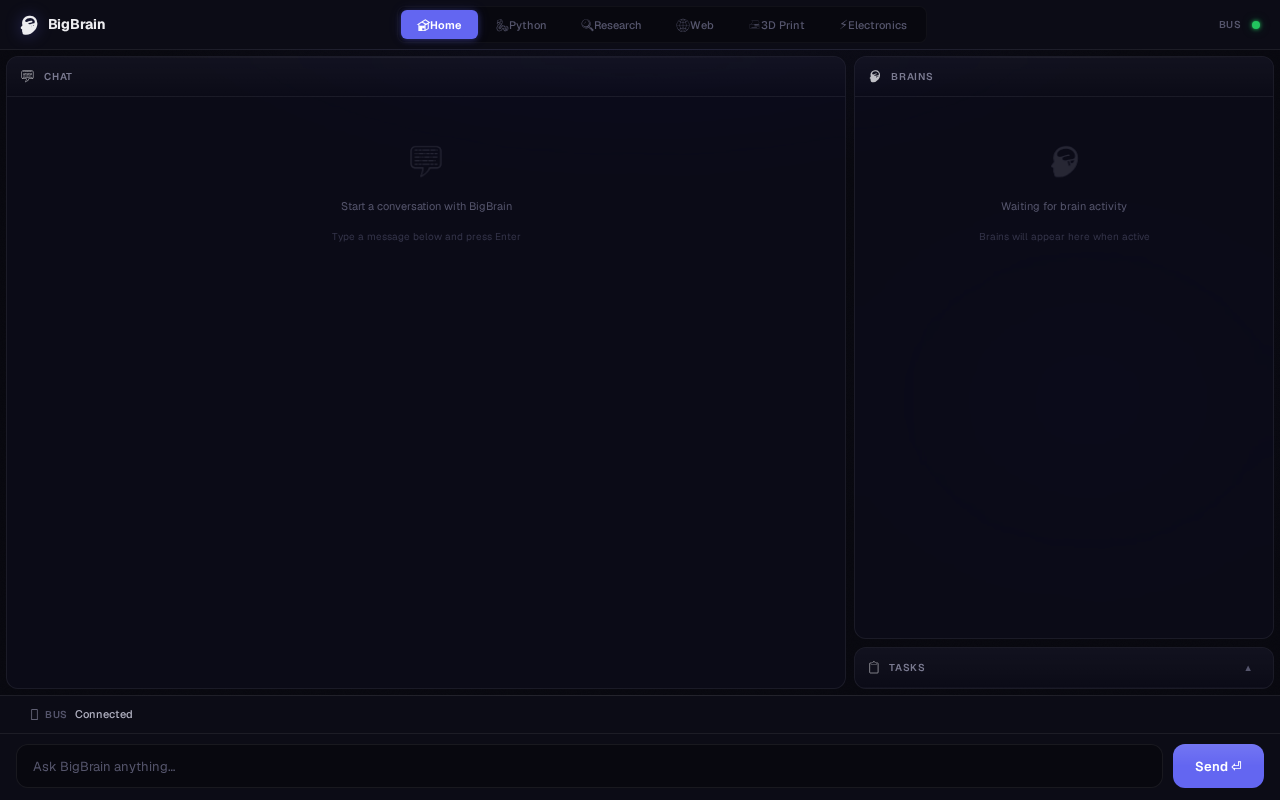
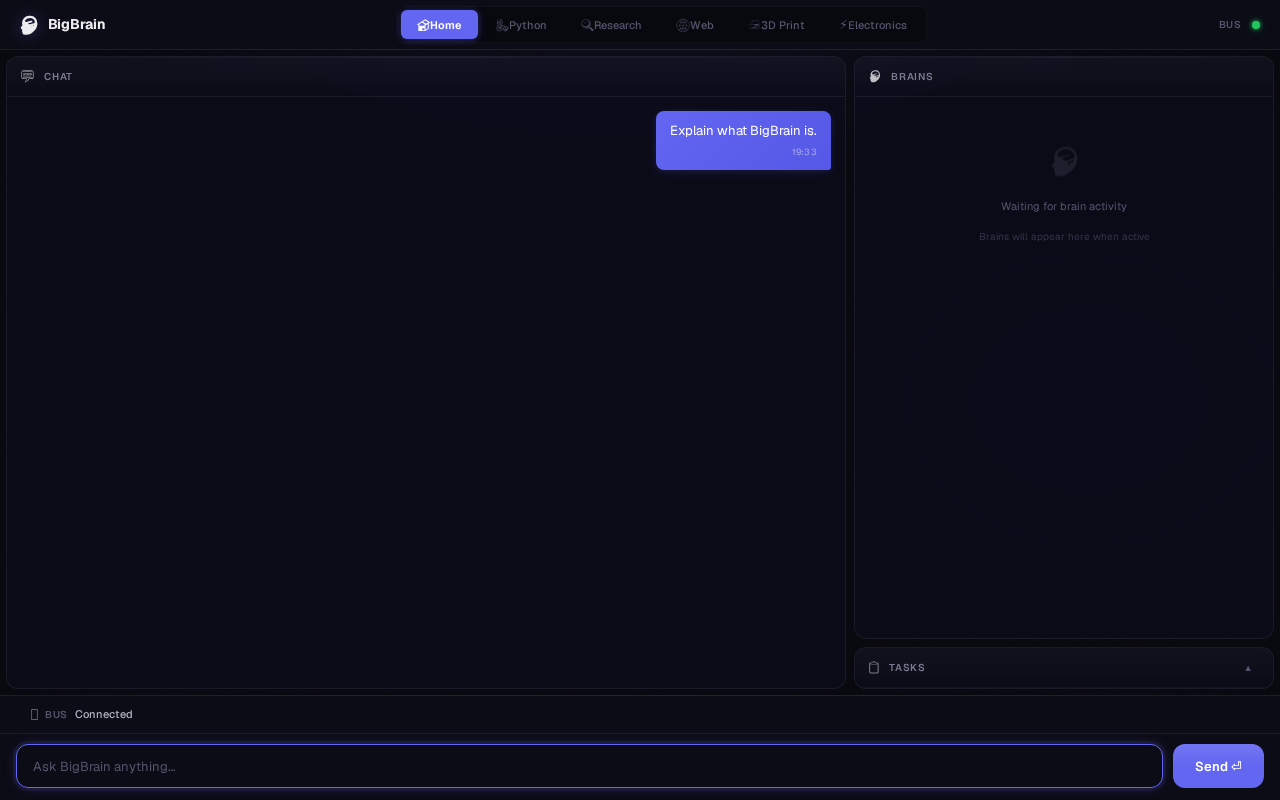
docs: Update screenshots to show live working states and ignore screenshot scripts

diff --git a/README.md b/README.md
@@ -48,14 +48,14 @@ See `docs/architecture.md` for full specification.
 
 BigBrain provides a morphable web interface that adapts to the current workspace and focus area.
 
-### Home Workspace
-![BigBrain Home Workspace](assets/frontend_home.png)
+### Home Workspace (Chat Response)
+![BigBrain Home Workspace Response](assets/frontend_home.png)
 
-### Python Workspace
-![BigBrain Python Workspace](assets/frontend_python.png)
+### Python Workspace (Workers Running)
+![BigBrain Python Workspace Running](assets/frontend_python.png)
 
-### Live Usage
-![BigBrain Live Usage](assets/frontend_live_usage.png)
+### Python Workspace (Result Landed)
+![BigBrain Python Workspace Result](assets/frontend_python_result.png)
 
 ## Supported Models
 
